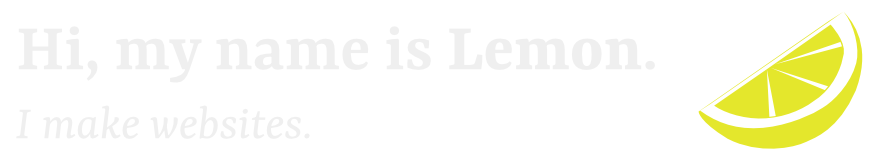
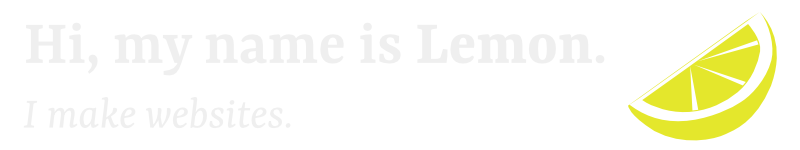
Better

Changed region(s): [[0.7812, 0.08, 1.0, 0.96], [0.9062, 0.8, 0.9375, 0.9067]]

diff --git a/README.md b/README.md
@@ -1,16 +1,17 @@
-
-<a href="https://ahoylemon.xyz" target="_blank">
-  <picture>
-    <source srcset="img/header-on-dark.png" media="(prefers-color-scheme: dark)">
-    <img src="img/header-on-light.png" alt="Hi, my name is Lemon. I make websites." />
-  </picture>
-</a>
+<div style="aspect-ratio:800/150;max-width:880px;">
+  <a href="https://ahoylemon.xyz" target="_blank">
+    <picture>
+      <source srcset="img/header-on-dark.png" media="(prefers-color-scheme: dark)">
+      <img src="img/header-on-light.png" alt="Hi, my name is Lemon. I make websites." style="width:100%;height:auto;display:block;" />
+    </picture>
+  </a>
+</div>
 
 
 ## GitHub Stats
 
-<img src="https://github-readme-stats.vercel.app/api?username=ahoylemon&i&show_icons=true&theme=radical&show=reviews,prs_merged&include_all_commits=true&hide=contribs&hide_border=true" alt="Lemon's GitHub stats" />
-<img src="https://github-readme-stats.vercel.app/api/top-langs/?username=ahoylemon&hide=hack&hide_border=true&layout=compact&langs_count=10&theme=radical" alt="Top Languages"  />
+![Lemon's GitHub stats](https://github-readme-stats.vercel.app/api?username=ahoylemon&i&show_icons=true&theme=transparent&icon_color=e4e72c&show=reviews,prs_merged&include_all_commits=true&hide=contribs&hide_border=true)
+![Top Languages](https://github-readme-stats.vercel.app/api/top-langs/?username=ahoylemon&hide=hack&hide_border=true&layout=compact&langs_count=10&theme=transparent)
 
 
 [![GitHub followers](https://img.shields.io/github/followers/ahoylemon?label=followers&style=for-the-badge)](https://github.com/ahoylemon?tab=followers)
